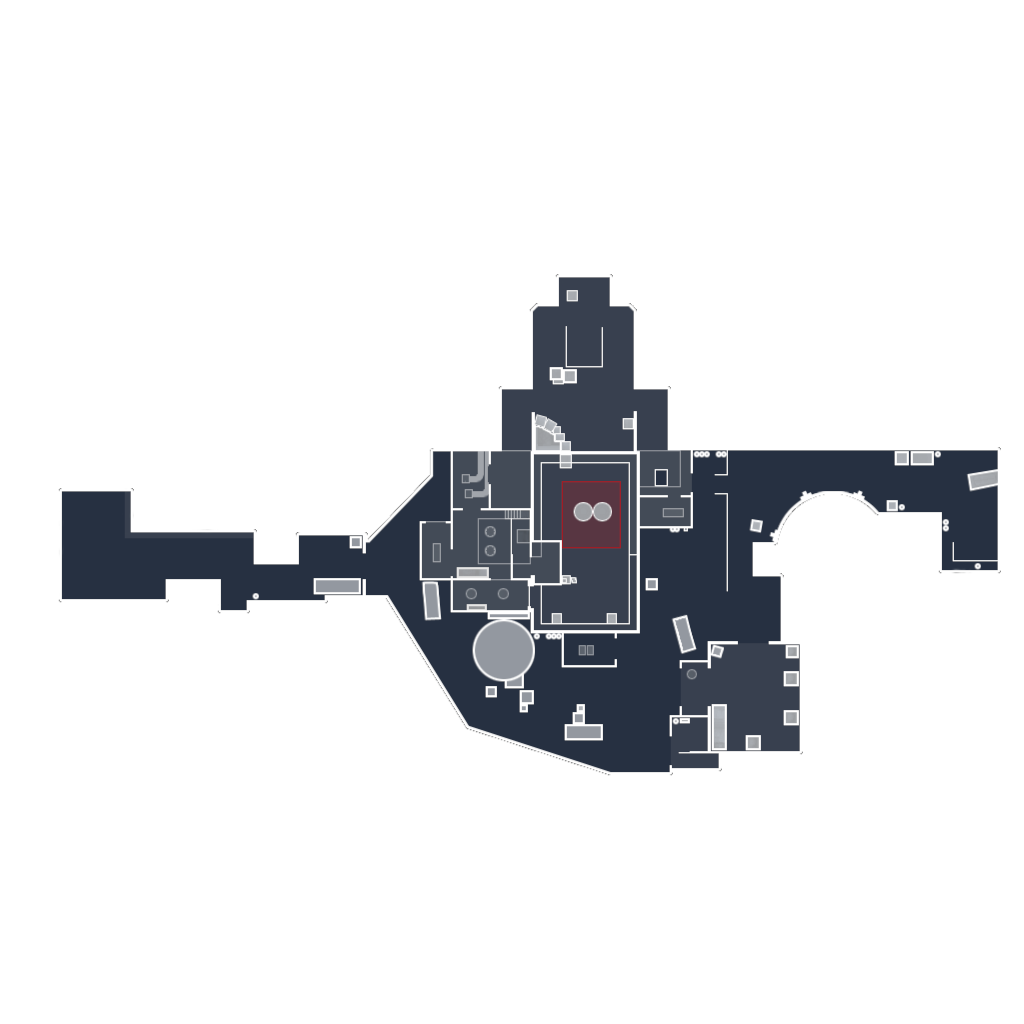
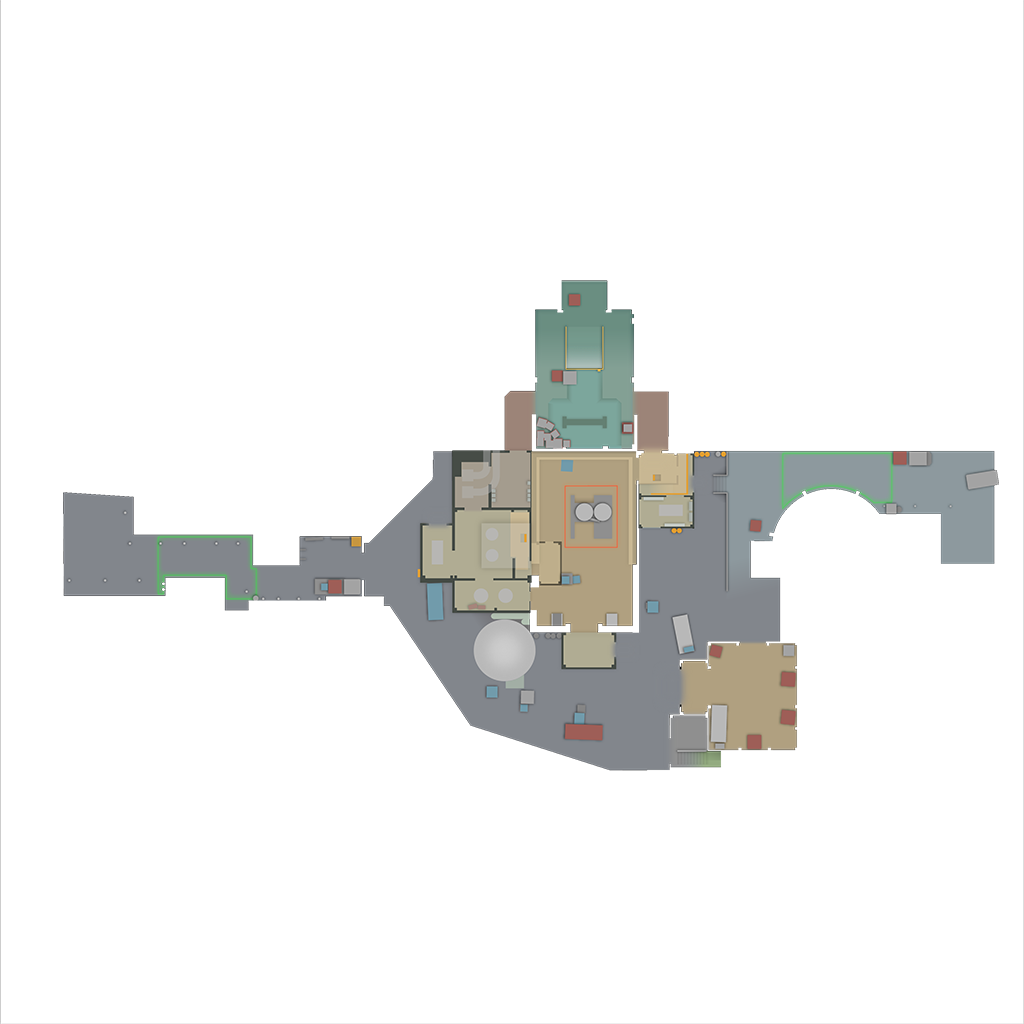
Calibrate CS2 radar anchors

Changed region(s): [[0.0625, 0.25, 1.0, 0.7812]]

diff --git a/app/page.tsx b/app/page.tsx
@@ -120,6 +120,17 @@ const sides: Side[] = ["T", "CT"];
 const routeColors = ["#ff7a3d", "#44d7a8", "#7cc9ff", "#f6d65f"];
 const rasterGridSize = 128;
 const routeMaskCache = new Map<string, Promise<RouteMask | null>>();
+const verifiedRadarAnchorsByMap: Record<string, readonly string[]> = {
+  mirage: ["t", "ct", "a", "b"],
+  inferno: ["t", "ct", "a", "b"],
+  nuke: ["t", "ct", "a", "b"],
+  ancient: ["t", "ct", "a", "b"],
+  anubis: ["t", "ct", "a", "b"],
+  dust2: ["t", "ct", "a", "b"],
+  cache: ["t", "ct", "a", "b"],
+  overpass: ["t", "ct", "a", "b"],
+  train: ["t", "ct", "a", "b"],
+};
 
 const point = (id: string, label: string, x: number, y: number, kind: Point["kind"] = "lane"): Point => ({ id, label, x, y, kind });
 const area = (
@@ -148,10 +159,10 @@ const baseMaps: BaseMapPlan[] = [
     tNote: "先问自己：中路有没有拿到窗口/拱门压力。",
     ctNote: "A 区不要只蹲包点，中路信息断了 B 和 A 都会难守。",
     points: [
-      point("t", "T 出生点", 44, 82, "spawn"), point("ramp", "A 坡", 20, 50), point("palace", "二楼", 31, 19),
+      point("t", "T 出生点", 87, 36, "spawn"), point("ramp", "A 坡", 20, 50), point("palace", "二楼", 31, 19),
       point("mid", "中路", 50, 48), point("window", "窗口", 47, 34, "danger"), point("connector", "拱门", 47, 45),
       point("short", "短箱", 63, 49), point("apps", "B 二楼", 78, 73), point("market", "超市", 70, 62),
-      point("a", "A 包点", 25, 29, "site"), point("b", "B 包点", 56, 78, "site"), point("ct", "警家", 69, 15, "spawn"),
+      point("a", "A 包点", 54, 76, "site"), point("b", "B 包点", 23, 28, "site"), point("ct", "警家", 28, 70, "spawn"),
     ],
     tactics: [
       {
@@ -219,10 +230,10 @@ const baseMaps: BaseMapPlan[] = [
     tNote: "别五个人堵一个口，香蕉道和二楼至少要有一边拿到空间。",
     ctNote: "B 区道具要分层交，A 区二楼不能长期没人听。",
     points: [
-      point("t", "T 出生点", 22, 82, "spawn"), point("banana", "香蕉道", 82, 60), point("logs", "木桶", 78, 54),
-      point("b", "B 包点", 82, 73, "site"), point("ct", "CT", 58, 14, "spawn"), point("mid", "中路", 49, 67),
+      point("t", "T 出生点", 10, 67, "spawn"), point("banana", "香蕉道", 82, 60), point("logs", "木桶", 78, 54),
+      point("b", "B 包点", 49, 22, "site"), point("ct", "CT", 90, 35, "spawn"), point("mid", "中路", 49, 67),
       point("second", "二楼", 37, 48), point("arch", "拱门", 60, 35), point("library", "书房", 55, 28),
-      point("a", "A 包点", 49, 23, "site"), point("pit", "大坑", 43, 23, "danger"), point("alt", "侧道", 34, 67),
+      point("a", "A 包点", 81, 69, "site"), point("pit", "大坑", 43, 23, "danger"), point("alt", "侧道", 34, 67),
     ],
     tactics: [
       {
@@ -289,10 +300,10 @@ const baseMaps: BaseMapPlan[] = [
     tNote: "不要只打一层。外场、黄房和铁板要制造纵向压力。",
     ctNote: "信息比枪法重要，外场失守要第一时间叫 B 层轮转。",
     points: [
-      point("t", "T 出生点", 10, 54, "spawn"), point("yard", "外场", 50, 64), point("secret", "K1", 68, 73),
+      point("t", "T 出生点", 19, 54, "spawn"), point("yard", "外场", 50, 64), point("secret", "K1", 68, 73),
       point("garage", "车库", 49, 54, "danger"), point("silo", "红箱", 47, 56), point("hut", "黄房", 61, 40),
-      point("squeaky", "铁门", 70, 43), point("a", "A 包点", 59, 50, "site"), point("vents", "管道", 65, 57),
-      point("ramp", "铁板", 76, 64), point("b", "B 包点", 72, 76, "site"), point("ct", "CT", 89, 51, "spawn"),
+      point("squeaky", "铁门", 70, 43), point("a", "A 包点", 58, 48, "site"), point("vents", "管道", 65, 57),
+      point("ramp", "铁板", 76, 64), point("b", "B 包点", 58, 58, "site"), point("ct", "CT", 82, 45, "spawn"),
     ],
     tactics: [
       {
@@ -359,9 +370,9 @@ const baseMaps: BaseMapPlan[] = [
     tNote: "先拿红房和中路，再决定 A 夹还是 B 坡。",
     ctNote: "中路不能免费给，B 坡需要道具拖时间。",
     points: [
-      point("t", "T 出生点", 50, 89, "spawn"), point("red", "红房", 33, 69), point("mid", "中路", 50, 56),
-      point("donut", "甜甜圈", 40, 50), point("a", "A 包点", 31, 26, "site"), point("cave", "洞口", 65, 55, "danger"),
-      point("ramp", "B 坡", 80, 70), point("b", "B 包点", 75, 43, "site"), point("ct", "CT", 52, 14, "spawn"),
+      point("t", "T 出生点", 48.5, 87, "spawn"), point("red", "红房", 33, 69), point("mid", "中路", 50, 56),
+      point("donut", "甜甜圈", 40, 50), point("a", "A 包点", 31, 25, "site"), point("cave", "洞口", 65, 55, "danger"),
+      point("ramp", "B 坡", 80, 70), point("b", "B 包点", 80, 40, "site"), point("ct", "CT", 51, 17, "spawn"),
       point("lane", "长廊", 24, 54),
     ],
     tactics: [
@@ -429,9 +440,9 @@ const baseMaps: BaseMapPlan[] = [
     tNote: "控水路后不要犹豫，A/B 两边都能二次夹击。",
     ctNote: "水路丢了就要主动换空间，不能五个人缩包点。",
     points: [
-      point("t", "T 出生点", 14, 86, "spawn"), point("canal", "水路", 41, 60), point("mid", "中路", 50, 50),
-      point("bridge", "桥", 68, 29), point("a-main", "A 主", 32, 47), point("a", "A 包点", 22, 15, "site"),
-      point("b-main", "B 主", 74, 48), point("b", "B 包点", 80, 26, "site"), point("ct", "CT", 51, 14, "spawn"),
+      point("t", "T 出生点", 58, 93, "spawn"), point("canal", "水路", 41, 60), point("mid", "中路", 50, 50),
+      point("bridge", "桥", 68, 29), point("a-main", "A 主", 32, 47), point("a", "A 包点", 31, 50, "site"),
+      point("b-main", "B 主", 74, 48), point("b", "B 包点", 76, 28, "site"), point("ct", "CT", 61, 22, "spawn"),
       point("connector", "连接", 62, 57),
     ],
     tactics: [
@@ -498,10 +509,10 @@ const baseMaps: BaseMapPlan[] = [
     tNote: "A 大和 A 小最好同时有压力，B 洞爆点要快。",
     ctNote: "开局 A 大信息很关键，中门不能无声丢。",
     points: [
-      point("t", "T 出生点", 22, 88, "spawn"), point("long", "A 大", 18, 46), point("pit", "大坑", 18, 30, "danger"),
+      point("t", "T 出生点", 39, 91, "spawn"), point("long", "A 大", 18, 46), point("pit", "大坑", 18, 30, "danger"),
       point("short", "A 小", 36, 39), point("mid", "中路", 50, 57), point("doors", "中门", 55, 38),
-      point("b-tun", "B 洞", 83, 70), point("b", "B 包点", 82, 18, "site"), point("a", "A 包点", 18, 14, "site"),
-      point("ct", "CT", 73, 35, "spawn"), point("car", "A 车", 24, 33),
+      point("b-tun", "B 洞", 83, 70), point("b", "B 包点", 21, 12, "site"), point("a", "A 包点", 80, 16, "site"),
+      point("ct", "CT", 62, 21, "spawn"), point("car", "A 车", 24, 33),
     ],
     tactics: [
       {
@@ -567,10 +578,10 @@ const baseMaps: BaseMapPlan[] = [
     tNote: "中路要和 A 主/B 仓形成同步，不要单人孤立控中。",
     ctNote: "中路一丢要主动收缩，包点别被两边同时夹。",
     points: [
-      point("t", "T 出生点", 34, 85, "spawn"), point("a-main", "A 主", 23, 62), point("squeaky", "门房", 41, 45),
+      point("t", "T 出生点", 88.7, 58.5, "spawn"), point("a-main", "A 主", 23, 62), point("squeaky", "门房", 41, 45),
       point("mid", "中路", 50, 56), point("vents", "通风管", 53, 46), point("b-main", "B 仓", 79, 65),
-      point("a", "A 包点", 32, 28, "site"), point("b", "B 包点", 86, 56, "site"), point("truck", "车位", 42, 33),
-      point("heaven", "二楼", 72, 55), point("ct", "CT", 42, 20, "spawn"),
+      point("a", "A 包点", 32.5, 26, "site"), point("b", "B 包点", 34.5, 79, "site"), point("truck", "车位", 42, 33),
+      point("heaven", "二楼", 72, 55), point("ct", "CT", 9.775, 47.3, "spawn"),
     ],
     tactics: [
       {
@@ -637,10 +648,10 @@ const baseMaps: BaseMapPlan[] = [
     tNote: "厕所慢控和下水道夹 B 都要有耐心。",
     ctNote: "前压信息很值钱，但死了会让回防很远。",
     points: [
-      point("t", "T 出生点", 39, 88, "spawn"), point("fountain", "喷泉", 40, 73), point("toilets", "厕所", 43, 57),
-      point("long", "A 长", 30, 48), point("a", "A 包点", 50, 23, "site"), point("connector", "连接", 51, 52),
-      point("water", "短水", 61, 75), point("monster", "怪兽", 77, 82), point("b", "B 包点", 72, 34, "site"),
-      point("bank", "银行", 52, 17), point("ct", "CT", 50, 7, "spawn"),
+      point("t", "T 出生点", 66, 93, "spawn"), point("fountain", "喷泉", 40, 73), point("toilets", "厕所", 43, 57),
+      point("long", "A 长", 30, 48), point("a", "A 包点", 55, 23, "site"), point("connector", "连接", 51, 52),
+      point("water", "短水", 61, 75), point("monster", "怪兽", 77, 82), point("b", "B 包点", 70, 31, "site"),
+      point("bank", "银行", 52, 17), point("ct", "CT", 49, 20, "spawn"),
     ],
     tactics: [
       {
@@ -706,10 +717,10 @@ const baseMaps: BaseMapPlan[] = [
     tNote: "外场烟墙能切割枪线，内场要靠爆弹一口气进。",
     ctNote: "外场别只站一条线，内场至少留反清道具。",
     points: [
-      point("t", "T 出生点", 36, 89, "spawn"), point("ivy", "绿通", 24, 20), point("main", "匪口", 40, 60),
-      point("ladder", "五道", 40, 45), point("outer", "外场", 54, 52), point("a", "A 包点", 64, 53, "site"),
-      point("pop", "六道", 72, 48), point("inner", "内场", 85, 66), point("b", "B 包点", 56, 80, "site"),
-      point("ct", "CT", 68, 12, "spawn"), point("heaven", "二楼", 74, 24, "danger"),
+      point("t", "T 出生点", 12, 25, "spawn"), point("ivy", "绿通", 24, 20), point("main", "匪口", 40, 60),
+      point("ladder", "五道", 40, 45), point("outer", "外场", 54, 52), point("a", "A 包点", 63, 49, "site"),
+      point("pop", "六道", 72, 48), point("inner", "内场", 85, 66), point("b", "B 包点", 52, 76, "site"),
+      point("ct", "CT", 86, 77, "spawn"), point("heaven", "二楼", 74, 24, "danger"),
     ],
     tactics: [
       {
@@ -2456,7 +2467,7 @@ function routeSegments(map: MapPlan, route: Route) {
 
 function isWalkableRadarPixel(r: number, g: number, b: number, a: number) {
   if (a < 24) return false;
-  if (r + g + b < 38) return false;
+  if (r + g + b < 110) return false;
   if (r > 185 && g > 185 && b > 185) return false;
   return true;
 }
@@ -2686,23 +2697,31 @@ function findRasterRoute(mask: RouteMask, from: RasterCell, to: RasterCell) {
 function buildImageRoutePlan(map: MapPlan, tactic: Tactic, mask: RouteMask) {
   const pointsById = new Map(map.points.map((item) => [item.id, item]));
   const markers = new Map<string, ImageRouteMarker>();
+  const verifiedAnchors = new Set(verifiedRadarAnchorsByMap[map.id] ?? []);
   const routes: ImageRoutePath[] = tactic.routes.map((route, routeIndex) => {
     const routeWaypoints: RouteWaypoint[] = [];
+    const anchorIds = route.points.filter((id) => verifiedAnchors.has(id) && pointsById.has(id));
 
-    route.points.forEach((id, index, routePointIds) => {
+    anchorIds.forEach((id, index) => {
       const pointItem = pointsById.get(id);
       if (!pointItem) return;
       const snapped = nearestWalkableCell(mask, pointToCell(mask, pointItem));
-      const marker = cellToWaypoint(mask, id, snapped);
+      const marker = { id, x: pointItem.x, y: pointItem.y };
       markers.set(id, { ...marker, label: pointItem.label, kind: pointItem.kind });
 
-      if (index >= routePointIds.length - 1) return;
-      const nextPoint = pointsById.get(routePointIds[index + 1]);
+      if (index >= anchorIds.length - 1) return;
+      const nextPoint = pointsById.get(anchorIds[index + 1]);
       if (!nextPoint) return;
       const nextSnapped = nearestWalkableCell(mask, pointToCell(mask, nextPoint));
-      const leg = findRasterRoute(mask, snapped, nextSnapped).map((cell, legIndex) => (
-        cellToWaypoint(mask, `${route.label}-${routeIndex}-${index}-${legIndex}`, cell)
-      ));
+      const leg = findRasterRoute(mask, snapped, nextSnapped).map((cell, legIndex, cells) => {
+        if (legIndex === 0) {
+          return { id: `${route.label}-${routeIndex}-${index}-start`, x: pointItem.x, y: pointItem.y };
+        }
+        if (legIndex === cells.length - 1) {
+          return { id: `${route.label}-${routeIndex}-${index}-end`, x: nextPoint.x, y: nextPoint.y };
+        }
+        return cellToWaypoint(mask, `${route.label}-${routeIndex}-${index}-${legIndex}`, cell);
+      });
       routeWaypoints.push(...(routeWaypoints.length ? leg.slice(1) : leg));
     });
 
@@ -2795,7 +2814,7 @@ function Radar({ map, tactic }: { map: MapPlan; tactic: Tactic }) {
       </svg>
       <div className="radar-map-name">{map.name}</div>
       <div className="radar-disclaimer">
-        {hasMapImage ? "真实底图 · 自动贴路" : "缺少真实地图 · 暂用备用图"}
+        {hasMapImage ? "官方锚点 · 路线示意" : "缺少真实地图 · 暂用备用图"}
       </div>
       <div className="map-area-layer" aria-hidden="true">
         {!hasMapImage && map.areas.map((item) => (
@@ -2817,7 +2836,7 @@ function Radar({ map, tactic }: { map: MapPlan; tactic: Tactic }) {
           {activeImageRoutePlan.routes.map((route) => {
             const routePoints = route.points.map((item) => `${item.x.toFixed(2)},${item.y.toFixed(2)}`).join(" ");
             const endPoint = route.points.at(-1);
-            if (!routePoints || !endPoint) return null;
+            if (route.points.length < 2 || !routePoints || !endPoint) return null;
             return (
               <g key={route.label}>
                 <polyline

diff --git a/public/maps/SOURCES.md b/public/maps/SOURCES.md
@@ -1,28 +1,34 @@
-# 地图图片来源
+# 地图图片与锚点来源
 
-当前页面默认使用第三方整理的真实 CS2 雷达 PNG 作为底图，并在其上叠加本站自己的战术路线与点位。
+当前页面默认使用 `MurkyYT/cs2-map-icons` 整理的 CS2 雷达 PNG 作为底图，并在其上叠加本站自己的战术路线示意。
 
 ## 使用的图片
 
-- `mirage.png`：`rabume/cs2-dma-radar` 的 `client/src/assets/map/de_mirage_radar.png`
-- `inferno.png`：`rabume/cs2-dma-radar` 的 `client/src/assets/map/de_inferno_radar.png`
-- `nuke.png`：`rabume/cs2-dma-radar` 的 `client/src/assets/map/de_nuke_radar.png`
-- `ancient.png`：`rabume/cs2-dma-radar` 的 `client/src/assets/map/de_ancient_radar.png`
-- `anubis.png`：`rabume/cs2-dma-radar` 的 `client/src/assets/map/de_anubis_radar.png`
-- `dust2.png`：`rabume/cs2-dma-radar` 的 `client/src/assets/map/de_dust2_radar.png`
-- `overpass.png`：`rabume/cs2-dma-radar` 的 `client/src/assets/map/de_overpass_radar.png`
-- `train.png`：`rabume/cs2-dma-radar` 的 `client/src/assets/map/de_train_radar.png`
-- `cache.png`：`MurkyYT/cs2-map-icons` 的 `images/radars/de_cache_radar_psd.png`
+以下文件均来自 `MurkyYT/cs2-map-icons` 的 `images/radars/de_*_radar_psd.png`：
+
+- `mirage.png`
+- `inferno.png`
+- `nuke.png`
+- `ancient.png`
+- `anubis.png`
+- `dust2.png`
+- `cache.png`
+- `overpass.png`
+- `train.png`
+
+## 锚点校准
+
+真实底图模式下，只把 T 出生点、CT 出生点、A 包点、B 包点作为可视化锚点。大部分锚点来自同仓库 `data/radar_info/de_*.txt` 的 overview 数据。
+
+Anubis 的 `radar_info` 文件只提供了 T/CT 出生点；A/B 包点按同一张雷达图上的橙色包点标识做了目视校准。其他中间点位仍用于战术文字说明，但不会在真实底图上当作精确坐标显示。
 
 ## 来源链接
 
-- https://github.com/rabume/cs2-dma-radar
-- https://github.com/lexogrine/cs2-react-hud
-- https://github.com/boltgolt/boltobserv
 - https://github.com/MurkyYT/cs2-map-icons
+- https://github.com/mwridgway/CS2Callouts
 
 ## 备注
 
-`rabume/cs2-dma-radar` 的 README 标注其雷达地图资源来自 Lexogrine 的 CS2 React HUD（MIT）和 Boltobserv（GPL-3.0）。`MurkyYT/cs2-map-icons` 的 README 标注地图 icons、radars、thumbnails 和 overview data 为 Valve Corporation 财产，该仓库只是提供公开资源的自动访问。
+`MurkyYT/cs2-map-icons` 的 README 标注地图 icons、radars、thumbnails 和 overview data 为 Valve Corporation 财产，该仓库只是提供公开资源的自动访问。
 
 本站是非官方、非商业粉丝工具；如果你要商业使用、二次分发或做正式公开产品，请重新确认所有图片资源授权。

diff --git a/README.md b/README.md
@@ -47,7 +47,7 @@ npm run build:pages
 
 ## 说明
 
-这是非官方粉丝工具。当前版本默认使用第三方整理的真实 CS2 雷达 PNG 作为底图，并在其上叠加本站自己的战术路线与点位；图片来源见 `public/maps/SOURCES.md`。
+这是非官方粉丝工具。当前版本默认使用第三方整理的真实 CS2 雷达 PNG 作为底图，并在其上叠加本站自己的战术路线示意。真实底图模式下只显示经过校准的 T/CT 出生点和 A/B 包点锚点；中间点位保留在战术文字里，不再作为精确地图标记显示。图片与锚点来源见 `public/maps/SOURCES.md`。
 
 如果你想替换图片，可以把新的雷达图放到 `public/maps/`，命名为 `mirage.png`、`inferno.png`、`nuke.png`、`ancient.png`、`anubis.png`、`dust2.png`、`cache.png`、`overpass.png`、`train.png`。页面会自动显示这些底图，再叠加战术路线和点位。
 
